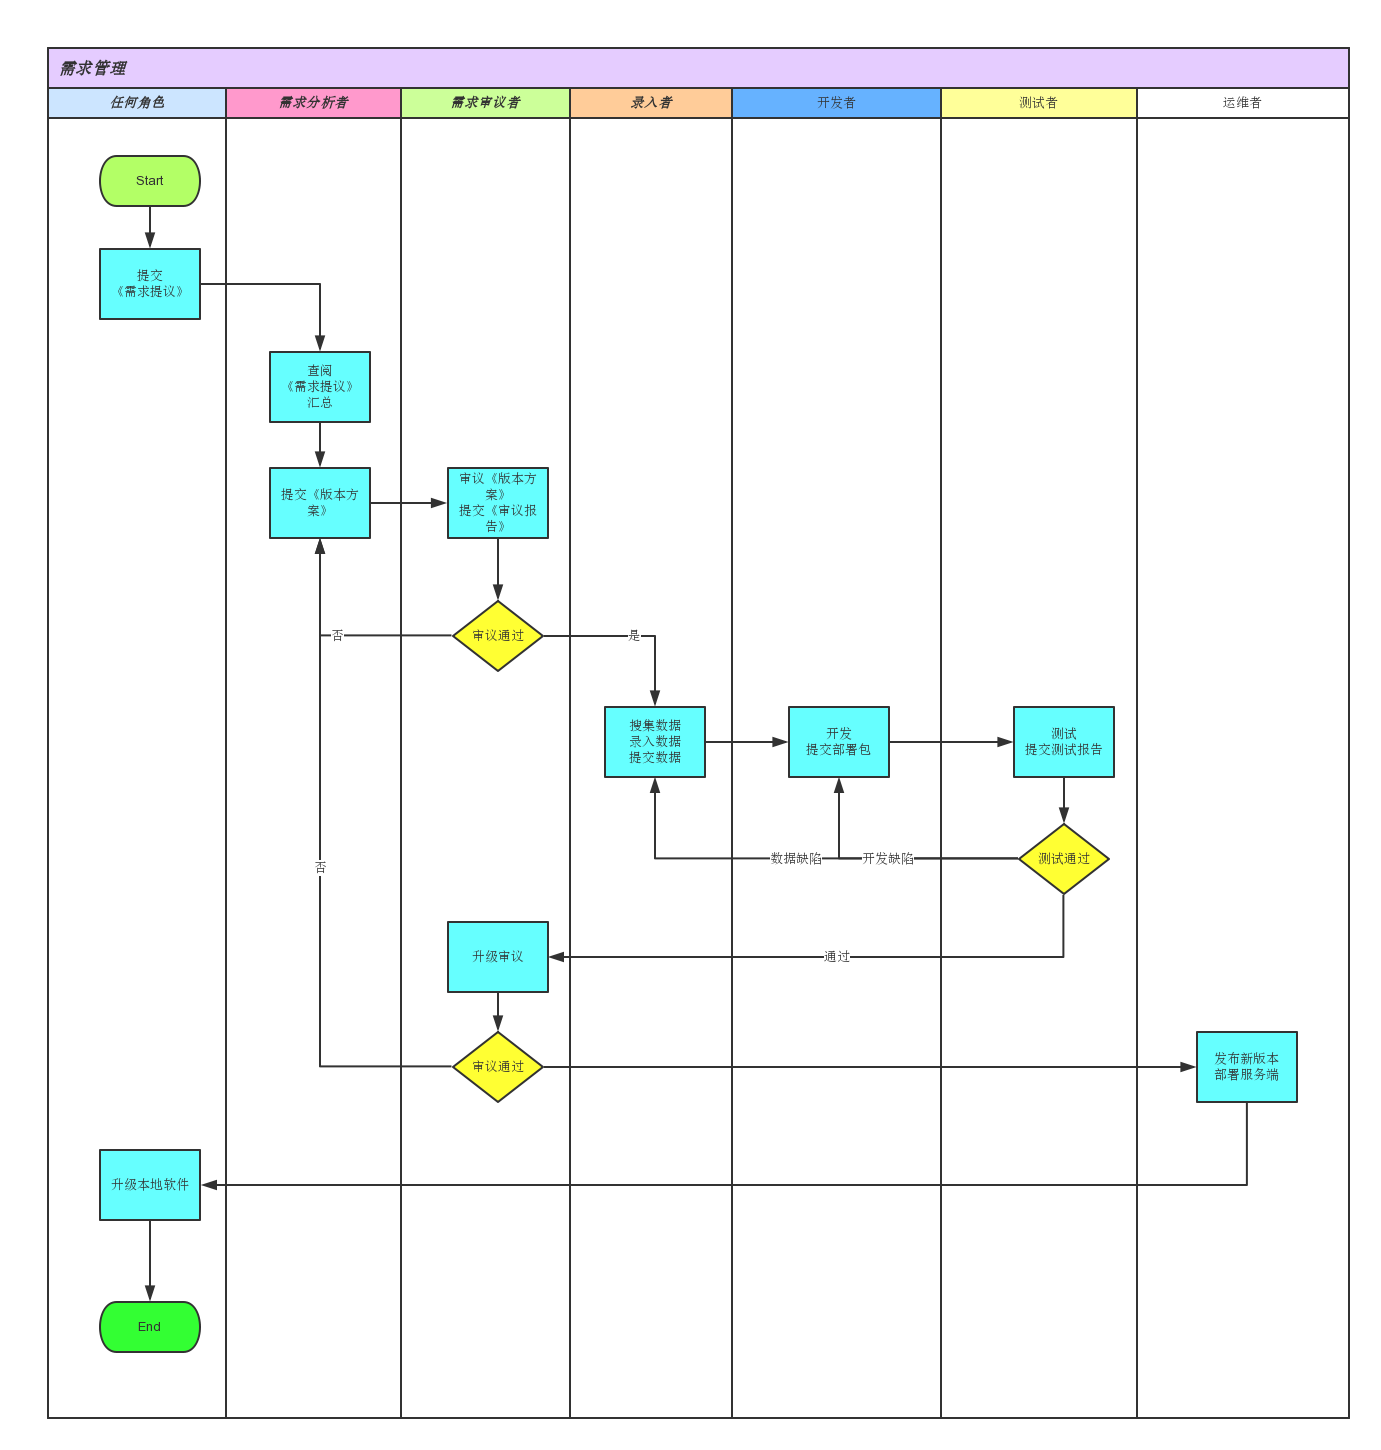
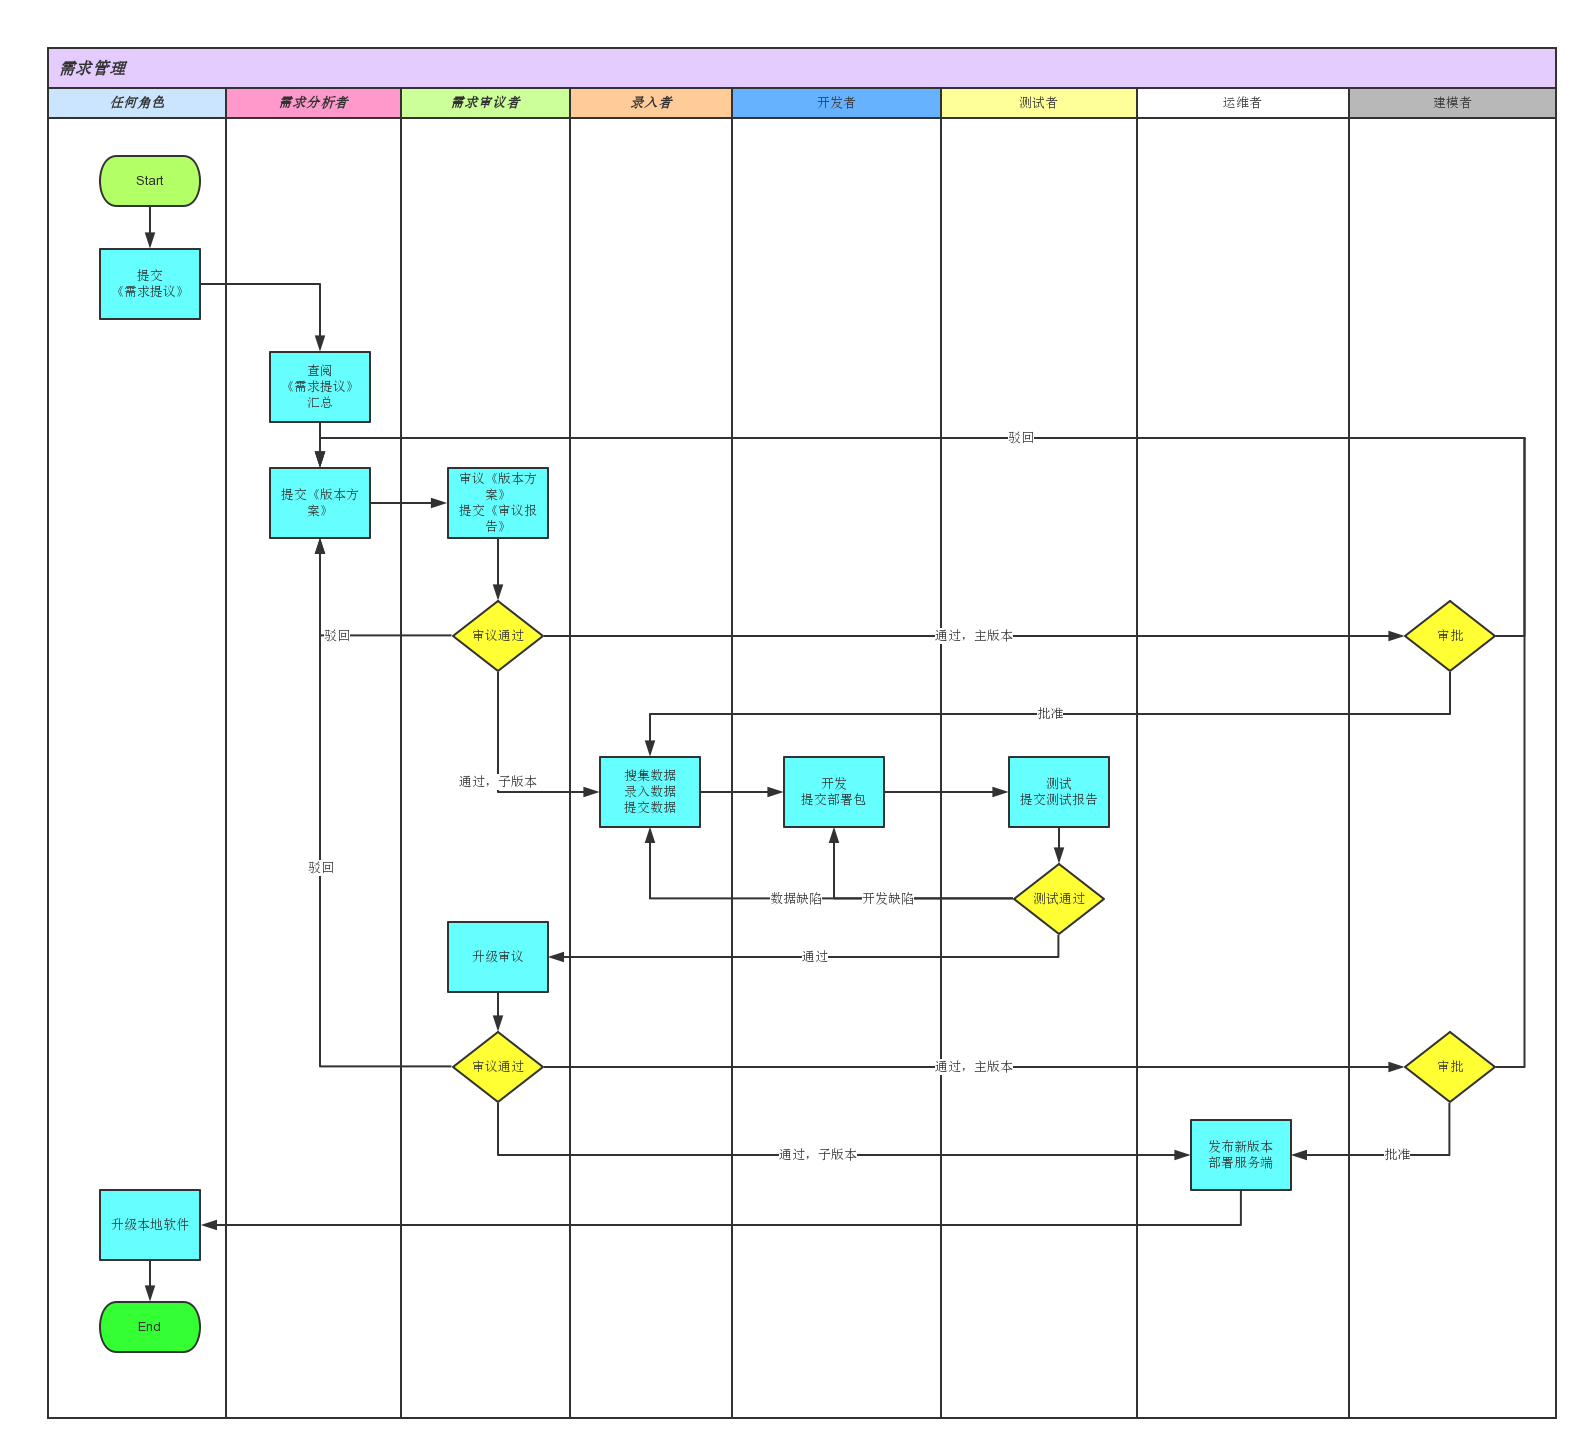
主版本审批

diff --git a/doc/com.md b/doc/com.md
@@ -63,16 +63,18 @@
 	3. 创建密钥对，填写用户信息，选择角色。用户信息包括：
 		1. 用户名
 		2. email
-		3. 密码
-		4. 私钥口令 
-		5. 真实信息（可选）
+		3. 手机号
+		4. 密码
+		5. 私钥口令 
+		6. 真实信息（可选）
 			* 姓名
 			* 工作单位
-		6. 自我介绍（可选）
-	4. 如果选择发布者或患者角色：
+		7. 自我介绍（可选）
+	4. 如果选择发布者角色：
 		1. 软件自动根据公钥和用户名创建本地库。
 		2. 服务器根据公钥和用户名创建中心库。
 	5. 需求分析者、需求审议者、开发者、测试者、运维者由建模者指定。待已有功能稳定，开发者有余力时，细化以上角色工作过程，逐步开放用户选举。
+	6. 患者由发布者指定，可以用用户名、email或手机号标识。
 * 导出
 	1. 软件把以下关键数据压缩为一个数据包：
 		* 密钥对
@@ -102,8 +104,9 @@
 * 调阅
 	1. 把计算机连接到公网。
 	2. 运行执行文件后选择“调阅”。
-	3. 软件列出订阅对象最近更新的病历，用户可以点击调阅进入病历详情页，阅读内容。
-
+	3. 软件列出最近更新的可读病历，用户可以点击调阅进入病历详情页，阅读内容。可读病历包括：
+		* 订阅者：对应发布者发布的病历。
+		* 患者：自己的病历（可以用户名、email、手机号标识）。
 * 需求提议（任何角色）
 	1. 把计算机连接到公网。
 	2. 运行执行文件后选择“需求提议”。
@@ -112,7 +115,7 @@
 ![requirment](需求管理.png)
 
 ###分配规则（本章内容由JPU负责人制定）
-1. 由学门科技ISU（Inner Servie Unit）与相关部门协商、核定税率，根据税率以及办税成本规定从订阅收入提取的JT比率。提取后的余额，以下成为“税后收入”。
+1. 由学门科技ISU（Inner Servie Unit）与相关部门协商、核定税率，根据税率以及办税成本规定从订阅收入提取的JT比率。提取后的余额，以下称为“税后收入”。
 2. 税后收入的分配规则是：
 	* 75%：发布者。
 	* 25%：产品专户
@@ -121,6 +124,6 @@
 		* 每月领取：1024JT
 		* 每月领取：产品专户余额的2%
 	* 需求审议者：
-		* 每版本方案上线：2048JT
+		* 主版本上线时领取：2048JT
 		* 每连续工作12个月领取：产品专户余额的10%
-	* 需求分析者、开发者、测试者、录入者：由需求分析者在《版本方案》中规定。
+	* 需求分析者、开发者、测试者、录入者：由需求分析者在《版本方案》中规定，在上线时领取。
